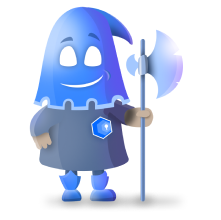
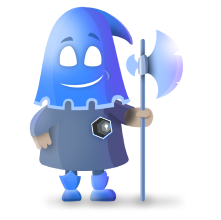
style: apply approved gray MetaSecret branding

Changed region(s): [[0.4072, 0.5182, 0.5158, 0.6273]]

diff --git a/docs/brand-assets.md b/docs/brand-assets.md
@@ -1,0 +1,39 @@
+# Gray01 brand assets
+
+The owner approved Gray01 on 18 October 2026 for current MetaSecret marks,
+including marks inside the application. The shared static pack is
+`design-system/brand` version 1.0.0; clients keep local resources and do not read
+the sibling workspace at runtime. Normal Gradle builds have no new renderer or
+dependency. The Orbit design package remains version 0.2.0.
+
+The approved fill mapping is `#0368FF → #2C2E2F`, `#4E95FF → #555B5D`,
+`#78AEFF → #858E91`. The five master paths and white keyhole are unchanged.
+Launchers use the accepted opaque black backplate; OS corner masking remains.
+
+| Local assets | Count | Integrity boundary |
+|---|---:|---|
+| Android launcher density/round PNGs | 6 | Same filenames and dimensions |
+| iOS AppIcon catalog PNGs | 15 | Same catalog assignments; opaque RGB |
+| `logo.xml`, `metasecretpicture.xml`, `executioner.xml` | 3 | Only nine brand fill attributes change |
+| Common `background_logo.png` | 1 | Same glow geometry and alpha |
+| `graphics/main_logo`, `top_logo`, `top_logo_bg`, `cloud_key` | 4 | Same dimensions, alpha and nonselected pixels |
+| `graphics/executioner`, `first`, `second`, `third` | 4 | Same output; only the embedded emblem mask changes |
+
+The embedded raster mask follows the original vector contour. White highlights,
+neighboring clothing and the blue character remain unchanged. A thin original
+antialias fringe outside the contour remains; independent review accepted it as
+negligible at display size. The mask must not be expanded into the clothing.
+Unrelated blue controls, shields, backgrounds, provider marks and historical
+research/screenshots are outside this recolor.
+
+Consumed shared manifest SHA-256:
[1 lines of base64/hex data omitted]
+The shared pack retains pristine raster inputs, an explicit maintenance exporter,
+palette, output hashes and destination map. Regenerate there and validate its
+manifest before copying; do not recolor already transformed client PNGs.
+
+Validation uses resource integrity checks, a resource gallery and packaged-asset
+inspection. These are not live application-screen or business E2E evidence.
+No user data, keys, authentication state or icon cache is reset. An installed
+older application may keep its old launcher until the owner updates its build;
+this task does not uninstall or install over that application.
